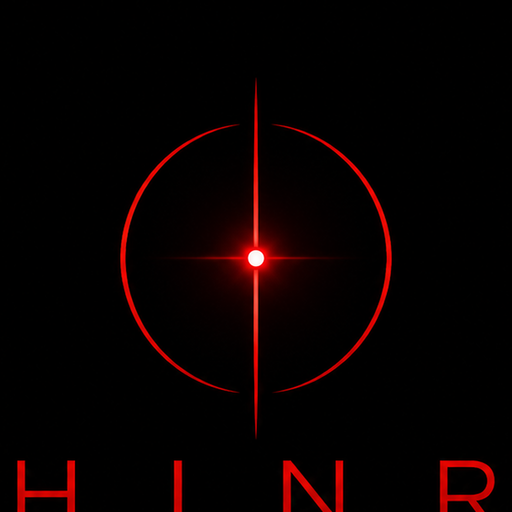
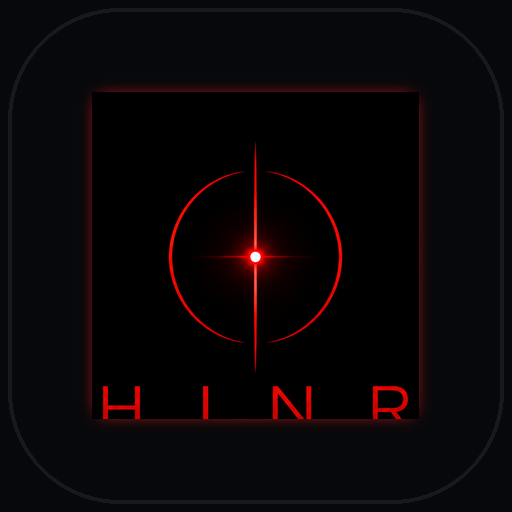
Add files via upload

diff --git a/style.css b/style.css
@@ -1034,3 +1034,138 @@ body[data-world="celestial-veil"] .round.play{background:linear-gradient(180deg,
 @keyframes awakeningRing{0%,100%{transform:scale(.98);opacity:.32}50%{transform:scale(1.055);opacity:.8}}
 @media(max-width:520px){.boot-awaken{bottom:max(25px,env(safe-area-inset-bottom));min-width:190px}}
 @media(prefers-reduced-motion:reduce){.boot-awaken:before{animation:none!important}}
+
+
+/* ===== WORLD SLEEP CHAMBERS 4.0 ===== */
+.sleep-overlay{background:radial-gradient(circle at 50% 12%,rgba(255,255,255,.03),transparent 32%),#030406;overflow:hidden}
+.sleep-overlay:before{content:"";position:absolute;inset:0;background:linear-gradient(180deg,rgba(255,255,255,.02),transparent 28%,rgba(0,0,0,.18));pointer-events:none}
+.sleep-scene{position:absolute;inset:0;opacity:0;pointer-events:none;transition:opacity .7s ease}
+.sleep-overlay.open .sleep-content{position:relative;z-index:2}
+.sleep-overlay.open .sleep-scene{opacity:0}
+body[data-world="black-sun"] .sleep-overlay.open .bs-sleep-scene,
+body[data-world="aquatoc"] .sleep-overlay.open .aq-sleep-scene,
+body[data-world="crimson-rain"] .sleep-overlay.open .cr-sleep-scene,
+body[data-world="mountain-blood"] .sleep-overlay.open .mb-sleep-scene,
+body[data-world="starless-void"] .sleep-overlay.open .sv-sleep-scene,
+body[data-world="celestial-veil"] .sleep-overlay.open .cv-sleep-scene{opacity:1}
+.sleep-content{max-width:92vw;padding:24px 14px}
+.sleep-content .eyebrow{position:relative;z-index:2}
+.sleep-content h2{position:relative;z-index:2;letter-spacing:.03em}
+.sleep-content #sleepTimerText{position:relative;z-index:2;color:#c7ccd5;letter-spacing:.18em;font-size:12px}
+.sleep-exit{z-index:3;background:rgba(255,255,255,.04)}
+.sleep-orb{position:relative;z-index:2;overflow:visible}
+.sleep-orb:before,.sleep-orb:after{content:"";position:absolute;inset:-14%;border-radius:50%;border:1px solid rgba(255,255,255,.08)}
+.sleep-orb:after{inset:-30%;opacity:.5}
+/* Black Sun */
+body[data-world="black-sun"] .sleep-overlay{background:radial-gradient(circle at 50% 18%,rgba(255,58,28,.06),transparent 24%),linear-gradient(180deg,#050507,#090606 54%,#020203)}
+.bs-sleep-horizon{position:absolute;left:0;right:0;top:57%;height:2px;background:linear-gradient(90deg,transparent,rgba(255,84,54,.76),transparent);box-shadow:0 0 26px rgba(255,44,28,.4)}
+.bs-sleep-sun{position:absolute;left:50%;top:42%;width:min(42vw,290px);aspect-ratio:1;transform:translate(-50%,-50%)}
+.bs-sleep-sun i,.bs-sleep-sun b,.bs-sleep-sun em{position:absolute;inset:0;border-radius:50%}
+.bs-sleep-sun i{inset:18%;background:#020203;box-shadow:inset 0 0 35px rgba(255,73,47,.12)}
+.bs-sleep-sun b{border:1px solid rgba(255,77,54,.9);box-shadow:0 0 28px rgba(255,44,28,.5),inset 0 0 20px rgba(255,44,28,.18)}
+.bs-sleep-sun em{inset:-15%;background:radial-gradient(circle,rgba(255,44,28,.14),transparent 62%);filter:blur(18px);animation:slowpulse 7s ease-in-out infinite}
+.bs-sleep-ash{position:absolute;width:4px;height:4px;border-radius:50%;background:#ff5d44;box-shadow:0 0 12px rgba(255,63,40,.8);opacity:.48;animation:bsMiniAsh 8s ease-in-out infinite}.bs-sleep-ash.a1{left:23%;top:32%}.bs-sleep-ash.a2{left:68%;top:48%;animation-delay:1.4s}.bs-sleep-ash.a3{left:57%;top:24%;animation-delay:2.7s}
+body[data-world="black-sun"] .sleep-content h2{color:#fff0ec;text-shadow:0 0 24px rgba(255,66,44,.18)}
+body[data-world="black-sun"] .sleep-orb{background:radial-gradient(circle,#2e0202 0 22%,rgba(255,69,40,.9) 26%,rgba(255,69,40,.18) 48%,transparent 69%)}
+body[data-world="black-sun"] .sleep-orb i{background:#120202;box-shadow:0 0 80px rgba(255,44,28,.6)}
+/* Aquatoc */
+body[data-world="aquatoc"] .sleep-overlay{background:radial-gradient(circle at 50% 16%,rgba(93,230,255,.06),transparent 24%),linear-gradient(180deg,#030b12,#041421 54%,#02060b)}
+.aq-sleep-sonar{position:absolute;left:50%;top:43%;width:min(42vw,290px);aspect-ratio:1;transform:translate(-50%,-50%)}
+.aq-sleep-sonar i,.aq-sleep-sonar b,.aq-sleep-sonar em{position:absolute;inset:0;border-radius:50%}
+.aq-sleep-sonar i{inset:34%;background:#86f4ff;box-shadow:0 0 28px rgba(93,230,255,.9)}
+.aq-sleep-sonar b{border:1px solid rgba(93,230,255,.86);box-shadow:0 0 26px rgba(93,230,255,.35);animation:aqMiniPulse 5.8s ease-out infinite}
+.aq-sleep-sonar em{inset:-18%;border:1px solid rgba(23,120,255,.28);box-shadow:0 0 20px rgba(23,120,255,.15);animation:aqMiniPulse 7.2s ease-out infinite .9s}
+.aq-sleep-current{position:absolute;left:-8%;width:116%;height:36px;border-top:1px solid rgba(93,230,255,.12);border-radius:50%;opacity:.4;animation:aqMiniDrift 11s ease-in-out infinite}.aq-sleep-current.c1{top:34%}.aq-sleep-current.c2{top:62%;animation-delay:2.4s;opacity:.25}
+.aq-sleep-bubble{position:absolute;width:7px;height:7px;border-radius:50%;border:1px solid rgba(174,247,255,.78);box-shadow:0 0 12px rgba(93,230,255,.35);opacity:.56;animation:aqMiniBubble 8.5s ease-in-out infinite}.aq-sleep-bubble.b1{left:26%;bottom:15%}.aq-sleep-bubble.b2{left:51%;bottom:22%;animation-delay:2s}.aq-sleep-bubble.b3{left:68%;bottom:13%;animation-delay:3.6s}
+body[data-world="aquatoc"] .sleep-content h2{color:#e8fdff;text-shadow:0 0 24px rgba(93,230,255,.18)}
+body[data-world="aquatoc"] .sleep-orb{background:radial-gradient(circle,#0a2234 0 22%,rgba(93,230,255,.92) 28%,rgba(93,230,255,.18) 48%,transparent 69%)}
+body[data-world="aquatoc"] .sleep-orb i{background:#e8fdff;box-shadow:0 0 80px rgba(93,230,255,.52)}
+/* Crimson Rain */
+body[data-world="crimson-rain"] .sleep-overlay{background:radial-gradient(circle at 50% 16%,rgba(255,51,79,.06),transparent 24%),linear-gradient(180deg,#0b0408,#13060d 54%,#040204)}
+.cr-sleep-gate{position:absolute;left:50%;top:41%;width:min(38vw,240px);height:min(44vw,280px);transform:translate(-50%,-50%)}
+.cr-sleep-gate i,.cr-sleep-gate b,.cr-sleep-gate em{position:absolute;display:block;inset:0;border:1px solid rgba(255,51,79,.8);box-shadow:0 0 24px rgba(255,51,79,.32),inset 0 0 18px rgba(255,51,79,.1)}
+.cr-sleep-gate b{inset:14px;opacity:.78}.cr-sleep-gate em{inset:28px;opacity:.45}
+.cr-sleep-reflection{position:absolute;left:12%;right:12%;bottom:18%;height:26%;background:linear-gradient(180deg,rgba(255,51,79,.18),transparent);filter:blur(18px);opacity:.45}
+.cr-sleep-rain{position:absolute;top:-8%;width:1px;height:70%;background:linear-gradient(180deg,rgba(255,255,255,0),rgba(255,94,118,.86),rgba(255,255,255,0));opacity:.36;animation:crRain 3.4s linear infinite}.cr-sleep-rain.r1{left:28%}.cr-sleep-rain.r2{left:51%;animation-duration:4.1s}.cr-sleep-rain.r3{left:72%;animation-duration:3.7s}
+@keyframes crRain{from{transform:translateY(-20%)}to{transform:translateY(55%)}}
+body[data-world="crimson-rain"] .sleep-content h2{color:#ffe8ed;text-shadow:0 0 24px rgba(255,51,79,.18)}
+body[data-world="crimson-rain"] .sleep-orb{background:radial-gradient(circle,#2d020b 0 22%,rgba(255,51,79,.94) 28%,rgba(255,51,79,.18) 48%,transparent 69%)}
+body[data-world="crimson-rain"] .sleep-orb i{background:#fff2f5;box-shadow:0 0 80px rgba(255,51,79,.54)}
+/* Mountain Blood */
+body[data-world="mountain-blood"] .sleep-overlay{background:radial-gradient(circle at 50% 16%,rgba(255,91,69,.06),transparent 24%),linear-gradient(180deg,#120805,#160b07 54%,#030202)}
+.mb-sleep-ridge{position:absolute;left:0;right:0;bottom:0;clip-path:polygon(0 100%,18% 66%,32% 79%,49% 48%,66% 72%,79% 54%,100% 100%)}
+.mb-sleep-ridge.back{height:36%;background:linear-gradient(180deg,rgba(89,56,44,.36),rgba(10,6,5,.95))}
+.mb-sleep-ridge.front{height:28%;background:linear-gradient(180deg,rgba(112,68,49,.4),rgba(8,5,5,.98));clip-path:polygon(0 100%,10% 74%,28% 86%,40% 64%,59% 88%,73% 62%,100% 100%)}
+.mb-sleep-sigil{position:absolute;left:50%;top:40%;width:min(28vw,170px);height:min(28vw,170px);transform:translate(-50%,-50%)}
+.mb-sleep-sigil i,.mb-sleep-sigil b,.mb-sleep-sigil em{position:absolute;display:block}.mb-sleep-sigil i{inset:10px;border:1px solid rgba(215,173,98,.78);transform:rotate(45deg);box-shadow:0 0 18px rgba(215,173,98,.2),inset 0 0 10px rgba(255,91,69,.08)}.mb-sleep-sigil b{left:50%;top:10px;bottom:10px;width:1px;background:linear-gradient(to bottom,transparent,#d7ad62,#ff5b45,transparent);box-shadow:0 0 9px rgba(255,91,69,.72)}.mb-sleep-sigil em{top:50%;left:10px;right:10px;height:1px;background:linear-gradient(90deg,transparent,#d7ad62,transparent);box-shadow:0 0 9px rgba(215,173,98,.62)}
+.mb-sleep-wind{position:absolute;left:-8%;width:116%;height:26px;border-top:1px solid rgba(215,173,98,.14);border-radius:50%;opacity:.3;animation:mbMiniWind 10s ease-in-out infinite}.mb-sleep-wind.w1{top:29%}.mb-sleep-wind.w2{top:56%;animation-direction:reverse;animation-duration:14s}
+.mb-sleep-ember{position:absolute;width:5px;height:5px;border-radius:50%;background:#ff7a5e;box-shadow:0 0 13px rgba(255,91,69,.88);opacity:.58;animation:mbMiniEmber 5.8s ease-in-out infinite}.mb-sleep-ember.e1{left:24%;bottom:18%}.mb-sleep-ember.e2{left:46%;bottom:14%;animation-delay:1.3s}.mb-sleep-ember.e3{left:63%;bottom:20%;animation-delay:2.6s}
+body[data-world="mountain-blood"] .sleep-content h2{color:#fff0dc;text-shadow:0 0 24px rgba(255,91,69,.18)}
+body[data-world="mountain-blood"] .sleep-orb{background:radial-gradient(circle,#250d07 0 22%,rgba(255,91,69,.92) 28%,rgba(215,173,98,.18) 48%,transparent 69%)}
+body[data-world="mountain-blood"] .sleep-orb i{background:#fff6df;box-shadow:0 0 80px rgba(255,91,69,.52)}
+/* Starless Void */
+body[data-world="starless-void"] .sleep-overlay{background:radial-gradient(circle at 50% 16%,rgba(143,116,255,.06),transparent 24%),linear-gradient(180deg,#06050d,#090711 54%,#010103)}
+.sv-sleep-horizon{position:absolute;left:50%;top:42%;width:min(42vw,280px);aspect-ratio:1;transform:translate(-50%,-50%)}
+.sv-sleep-horizon i,.sv-sleep-horizon b,.sv-sleep-horizon em{position:absolute;inset:0;border-radius:50%;display:block}.sv-sleep-horizon i{inset:22%;background:radial-gradient(circle,#0a0812 0 34%,#000 60%,transparent 61%)}.sv-sleep-horizon b{border:1px solid rgba(159,132,255,.65);box-shadow:0 0 18px rgba(143,116,255,.25)}.sv-sleep-horizon em{inset:-12%;background:radial-gradient(circle,rgba(137,105,255,.14),transparent 64%);filter:blur(14px)}
+.sv-sleep-orbit{position:absolute;left:50%;top:42%;width:min(50vw,360px);height:min(18vw,112px);border:1px solid rgba(159,132,255,.24);border-radius:50%;transform:translate(-50%,-50%) rotate(18deg)}.sv-sleep-orbit.o2{width:min(46vw,320px);transform:translate(-50%,-50%) rotate(-14deg)}.sv-sleep-orbit.o3{width:min(40vw,280px);transform:translate(-50%,-50%) rotate(74deg);opacity:.55}
+.sv-sleep-star{position:absolute;width:4px;height:4px;border-radius:50%;background:#efeaff;box-shadow:0 0 10px rgba(232,228,255,.9);opacity:.8;animation:cvStar 6.4s ease-in-out infinite}.sv-sleep-star.s1{left:27%;top:30%}.sv-sleep-star.s2{left:67%;top:24%;animation-delay:1.8s}.sv-sleep-star.s3{left:59%;top:60%;animation-delay:3s}
+body[data-world="starless-void"] .sleep-content h2{color:#f0edff;text-shadow:0 0 24px rgba(143,116,255,.18)}
+body[data-world="starless-void"] .sleep-orb{background:radial-gradient(circle,#070611 0 20%,rgba(101,86,170,.82) 24%,rgba(137,105,255,.18) 42%,transparent 68%)}
+body[data-world="starless-void"] .sleep-orb i{background:#eeeaff;box-shadow:0 0 80px rgba(137,105,255,.42)}
+/* Celestial Veil */
+body[data-world="celestial-veil"] .sleep-overlay{background:radial-gradient(circle at 50% 14%,rgba(255,255,255,.28),transparent 24%),linear-gradient(180deg,#f9f4e5,#efe2bc 54%,#d2bc84)}
+.cv-sleep-halo{position:absolute;left:50%;top:39%;width:min(42vw,290px);aspect-ratio:1;transform:translate(-50%,-50%)}
+.cv-sleep-halo i,.cv-sleep-halo b,.cv-sleep-halo em{position:absolute;inset:0;border-radius:50%;display:block}.cv-sleep-halo i{inset:31%;background:radial-gradient(circle,#fff,#f7ebc3 60%,transparent);box-shadow:0 0 28px rgba(255,241,196,.88)}.cv-sleep-halo b{border:1px solid rgba(244,223,160,.95);box-shadow:0 0 24px rgba(244,223,160,.46),inset 0 0 14px rgba(255,255,255,.35)}.cv-sleep-halo em{inset:-16%;border:1px solid rgba(255,250,238,.82);opacity:.78}
+.cv-sleep-ray{position:absolute;left:50%;top:39%;width:2px;height:230px;transform-origin:center 130px;background:linear-gradient(to top,transparent,rgba(255,237,177,.1),rgba(255,249,232,.95),transparent);opacity:.8}.cv-sleep-ray.r1{transform:translate(-50%,-50%) rotate(0deg)}.cv-sleep-ray.r2{transform:translate(-50%,-50%) rotate(60deg)}.cv-sleep-ray.r3{transform:translate(-50%,-50%) rotate(-60deg)}
+.cv-sleep-arch{position:absolute;left:50%;bottom:0;transform:translateX(-50%);border:1px solid rgba(255,246,216,.52);border-bottom:none;border-radius:50% 50% 0 0/100% 100% 0 0;opacity:.45}.cv-sleep-arch.a1{width:min(52vw,380px);height:min(16vw,110px)}.cv-sleep-arch.a2{width:min(72vw,540px);height:min(24vw,170px);opacity:.24}
+.cv-sleep-star{position:absolute;width:4px;height:4px;border-radius:50%;background:#fffef9;box-shadow:0 0 10px rgba(255,251,224,.95);opacity:.82;animation:cvStar 5.5s ease-in-out infinite}.cv-sleep-star.s1{left:24%;top:24%}.cv-sleep-star.s2{left:67%;top:20%;animation-delay:1.5s}.cv-sleep-star.s3{left:59%;top:57%;animation-delay:3s}
+body[data-world="celestial-veil"] .sleep-exit{border-color:rgba(181,149,84,.34);color:#5b4620;background:rgba(255,255,255,.26)}
+body[data-world="celestial-veil"] .sleep-content .eyebrow,body[data-world="celestial-veil"] .sleep-content #sleepTimerText{color:#624f29}
+body[data-world="celestial-veil"] .sleep-content h2{color:#2b2014;text-shadow:0 0 24px rgba(255,255,255,.44)}
+body[data-world="celestial-veil"] .sleep-orb{background:radial-gradient(circle,#fff7de 0 18%,rgba(245,228,173,.92) 24%,rgba(245,228,173,.25) 42%,transparent 68%)}
+body[data-world="celestial-veil"] .sleep-orb i{background:#fffef7;box-shadow:0 0 80px rgba(242,221,177,.62)}
+@media(max-width:520px){.sleep-content h2{font-size:52px}.sleep-orb{width:180px}.sleep-exit{right:12px;top:12px}}
+
+/* ===== CLEAN INTERACTION FOCUS 4.1 ===== */
+button,
+[role="button"],
+.world-card,
+input,
+select {
+  -webkit-tap-highlight-color: transparent;
+}
+
+button:focus,
+[role="button"]:focus,
+.world-card:focus {
+  outline: none;
+}
+
+button:focus-visible,
+[role="button"]:focus-visible,
+.world-card:focus-visible {
+  outline: 1px solid rgba(255,255,255,.24);
+  outline-offset: 3px;
+  box-shadow: 0 0 0 1px rgba(255,255,255,.035);
+}
+
+button:active,
+[role="button"]:active,
+.world-card:active {
+  transform: scale(.985);
+  filter: brightness(1.06);
+}
+
+@media (hover:hover) {
+  button:hover,
+  [role="button"]:hover {
+    filter: brightness(1.035);
+  }
+}
+
+body[data-world="celestial-veil"] button:focus-visible,
+body[data-world="celestial-veil"] [role="button"]:focus-visible,
+body[data-world="celestial-veil"] .world-card:focus-visible {
+  outline-color: rgba(86,66,31,.26);
+  box-shadow: 0 0 0 1px rgba(86,66,31,.035);
+}

diff --git a/index.html b/index.html
@@ -218,7 +218,7 @@
       <article class="panel glass timer-panel"><div class="panel-head"><div><p class="eyebrow">SLEEP PROTOCOL</p><h2 id="timerTitle">NO TIMER</h2></div><span id="timerCountdown">∞</span></div><div id="timerButtons" class="timer-buttons"></div><button id="fullscreenSleep" class="wide-btn">ENTER SLEEP CHAMBER</button></article>
     </section>
 
-    <section class="system glass"><div><small>CORE VERSION</small><b>3.9 OMEGA AWAKENING</b></div><div><small>AUDIO ENGINE</small><b>WEB AUDIO</b></div><div><small>MEMORY</small><b id="memoryLabel">LOCAL + FAVORITES</b></div><div><small>STATUS</small><b id="systemStatus">READY</b></div></section>
+    <section class="system glass"><div><small>CORE VERSION</small><b>4.2 APP ICON UPDATE</b></div><div><small>AUDIO ENGINE</small><b>WEB AUDIO</b></div><div><small>MEMORY</small><b id="memoryLabel">LOCAL + FAVORITES</b></div><div><small>STATUS</small><b id="systemStatus">READY</b></div></section>
     <footer><span>INVINCIBLE UNDER THE SUN</span><span>© SHINRA SIGNAL NETWORK</span></footer>
   </main>
 
@@ -231,7 +231,27 @@
     <small id="gateGenre">DARK AMBIENT</small>
   </aside>
 
-  <aside id="sleepOverlay" class="sleep-overlay" aria-hidden="true"><button id="exitSleepBtn" class="sleep-exit">EXIT</button><div class="sleep-content"><p id="sleepCode" class="eyebrow">CHANNEL 01</p><h2 id="sleepTitle">BLACK SUN</h2><div class="sleep-orb"><i></i></div><p id="sleepTimerText">NO TIMER</p><button id="sleepPlayBtn" class="round play">▶</button></div></aside>
+  <aside id="sleepOverlay" class="sleep-overlay" aria-hidden="true">
+    <div class="sleep-scene bs-sleep-scene" aria-hidden="true">
+      <div class="bs-sleep-horizon"></div><div class="bs-sleep-sun"><i></i><b></b><em></em></div><span class="bs-sleep-ash a1"></span><span class="bs-sleep-ash a2"></span><span class="bs-sleep-ash a3"></span>
+    </div>
+    <div class="sleep-scene aq-sleep-scene" aria-hidden="true">
+      <div class="aq-sleep-sonar"><i></i><b></b><em></em></div><div class="aq-sleep-current c1"></div><div class="aq-sleep-current c2"></div><span class="aq-sleep-bubble b1"></span><span class="aq-sleep-bubble b2"></span><span class="aq-sleep-bubble b3"></span>
+    </div>
+    <div class="sleep-scene cr-sleep-scene" aria-hidden="true">
+      <div class="cr-sleep-gate"><i></i><b></b><em></em></div><div class="cr-sleep-reflection"></div><div class="cr-sleep-rain r1"></div><div class="cr-sleep-rain r2"></div><div class="cr-sleep-rain r3"></div>
+    </div>
+    <div class="sleep-scene mb-sleep-scene" aria-hidden="true">
+      <div class="mb-sleep-ridge back"></div><div class="mb-sleep-ridge front"></div><div class="mb-sleep-sigil"><i></i><b></b><em></em></div><div class="mb-sleep-wind w1"></div><div class="mb-sleep-wind w2"></div><span class="mb-sleep-ember e1"></span><span class="mb-sleep-ember e2"></span><span class="mb-sleep-ember e3"></span>
+    </div>
+    <div class="sleep-scene sv-sleep-scene" aria-hidden="true">
+      <div class="sv-sleep-horizon"><i></i><b></b><em></em></div><div class="sv-sleep-orbit o1"></div><div class="sv-sleep-orbit o2"></div><div class="sv-sleep-orbit o3"></div><span class="sv-sleep-star s1"></span><span class="sv-sleep-star s2"></span><span class="sv-sleep-star s3"></span>
+    </div>
+    <div class="sleep-scene cv-sleep-scene" aria-hidden="true">
+      <div class="cv-sleep-halo"><i></i><b></b><em></em></div><div class="cv-sleep-ray r1"></div><div class="cv-sleep-ray r2"></div><div class="cv-sleep-ray r3"></div><div class="cv-sleep-arch a1"></div><div class="cv-sleep-arch a2"></div><span class="cv-sleep-star s1"></span><span class="cv-sleep-star s2"></span><span class="cv-sleep-star s3"></span>
+    </div>
+    <button id="exitSleepBtn" class="sleep-exit">EXIT</button>
+    <div class="sleep-content"><p id="sleepCode" class="eyebrow">CHANNEL 01</p><h2 id="sleepTitle">BLACK SUN</h2><div class="sleep-orb"><i></i></div><p id="sleepTimerText">NO TIMER</p><button id="sleepPlayBtn" class="round play">▶</button></div></aside>
 
   <aside id="settingsOverlay" class="settings-overlay" aria-hidden="true">
     <div class="settings-card glass" role="dialog" aria-modal="true" aria-labelledby="settingsTitle">

diff --git a/sw.js b/sw.js
@@ -1,1 +1,1 @@
-const CACHE='shinra-omega-awakening-3.9';const ASSETS=['./','./index.html','./style.css','./app.js','./manifest.json','./icon-192.png','./icon-512.png','./shinra-symbol.png','./shinra-omega-logo.png'];self.addEventListener('install',e=>e.waitUntil(caches.open(CACHE).then(c=>c.addAll(ASSETS)).then(()=>self.skipWaiting())));self.addEventListener('activate',e=>e.waitUntil(caches.keys().then(keys=>Promise.all(keys.filter(k=>k!==CACHE).map(k=>caches.delete(k)))).then(()=>self.clients.claim())));self.addEventListener('fetch',e=>{if(e.request.method!=='GET')return;e.respondWith(fetch(e.request).then(res=>{const copy=res.clone();caches.open(CACHE).then(c=>c.put(e.request,copy));return res}).catch(()=>caches.match(e.request).then(c=>c||caches.match('./index.html'))))});
+const CACHE='shinra-omega-app-icon-update-4.2';const ASSETS=['./','./index.html','./style.css','./app.js','./manifest.json','./icon-192.png','./icon-512.png','./shinra-symbol.png','./shinra-omega-logo.png'];self.addEventListener('install',e=>e.waitUntil(caches.open(CACHE).then(c=>c.addAll(ASSETS)).then(()=>self.skipWaiting())));self.addEventListener('activate',e=>e.waitUntil(caches.keys().then(keys=>Promise.all(keys.filter(k=>k!==CACHE).map(k=>caches.delete(k)))).then(()=>self.clients.claim())));self.addEventListener('fetch',e=>{if(e.request.method!=='GET')return;e.respondWith(fetch(e.request).then(res=>{const copy=res.clone();caches.open(CACHE).then(c=>c.put(e.request,copy));return res}).catch(()=>caches.match(e.request).then(c=>c||caches.match('./index.html'))))});